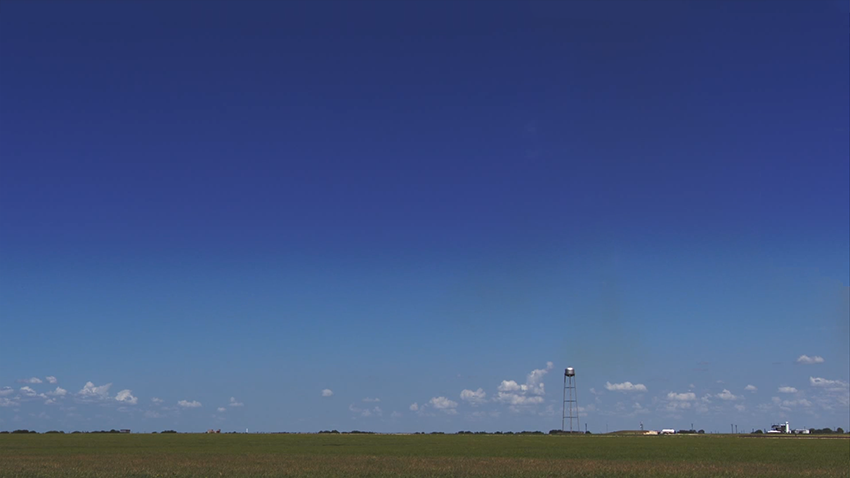
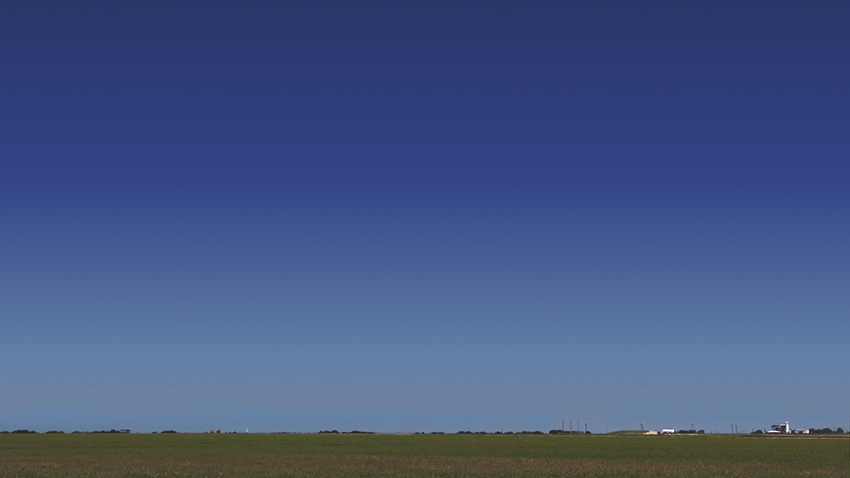
Nice clouds.

diff --git a/js/rocket.js b/js/rocket.js
@@ -3,17 +3,42 @@ function Rocket(img, x, y) {
 	this.x = x;
 	this.y = y;
 	
-	this.gravity = 0.5; //TODO
+	this.gravity = 0.1; //TODO
 	
 	this.acc = [0, 0];
 	this.speed = [0, 0];
+	
+	this.rotation = 0;
+	this.rotation_speed = 0;
 }
 
 Rocket.prototype.draw = function(ctx) {
-	ctx.drawImage(this.img, this.x, this.y);
+	ctx.save();
+	//ctx.translate(this.x - this.img.width/2 - 850, this.y - this.img.height/2); //TODO 850
+	ctx.translate(this.x - this.img.width/2, this.y); //TODO 850
+	ctx.rotate(this.rotation * Math.PI/180);
+
+	ctx.drawImage(this.img, -this.img.width/2, 0);
+	ctx.restore();
 }
 
 Rocket.prototype.move = function(key_up, key_down, key_left, key_right) {
+	
+	if (key_left) {
+		this.rotation_speed -= 0.2;
+	}
+	if (key_right) {
+		this.rotation_speed += 0.2;
+	}
+		
+	this.rotation += this.rotation_speed;
+	if (this.rotation < 0) {
+		this.rotation = 360;
+	} else if (this.rotation > 360) {
+		this.rotation = 0;
+	}
+	
+	
 	
 	if (key_up) {
 		this.y -= 1;
@@ -21,7 +46,7 @@ Rocket.prototype.move = function(key_up, key_down, key_left, key_right) {
 	
 	this.y += this.gravity;
 	
-	if (this.y > 417) { //TODO crash?
-		this.y = 417;
+	if (this.y > 398) { //TODO crash?
+		this.y = 398;
 	}
 }

diff --git a/js/main.js b/js/main.js
@@ -18,8 +18,10 @@ function play() {
 	var screen_w = c.width;
 	var screen_h = c.height;
 	
+	var frame = 0;
+	
 	//
-	var my_rocket = new Rocket(rocket_img, 600, 418);
+	var my_rocket = new Rocket(rocket_img, 600, 398);
 
 	// Controls
 	var key_up = false;
@@ -83,9 +85,13 @@ function play() {
 	}
 	
 	
+	//
 	function drawWorld() {
-		// background
-		//ctx.drawImage(grass_img, x*map.tile_size, y*map.tile_size, map.tile_size, map.tile_size, x*map.tile_size, y*map.tile_size, map.tile_size, map.tile_size);
+		
+		ctx.drawImage(clouds_img, frame/4, 351);
+		ctx.drawImage(clouds_img, frame/4 - screen_w, 351);
+
+		ctx.drawImage(tower_img, 556, 351);
 	}
 	
 	// draw loop
@@ -100,7 +106,7 @@ function play() {
 		delta = now - then;
 		
 		if (delta > interval) {
-
+			
 			ctx.clearRect(0, 0, screen_w, screen_h);
 			drawWorld();
 			
@@ -109,6 +115,11 @@ function play() {
 					
 			// update time stuffs
 			then = now - (delta % interval);		
+			
+			frame += 1;
+			if (frame == screen_w*4) {
+				frame = 0;
+			}
 		}
 		
 	}

diff --git a/js/images.js b/js/images.js
@@ -1,3 +1,11 @@
+// world
+var tower_img = new Image();
+tower_img.src = "img/tower.png";
+
+var clouds_img = new Image();
+clouds_img.src = "img/clouds.png";
+
+
 // rocket
 var rocket_img = new Image();
 rocket_img.src = "img/rocket.png";
